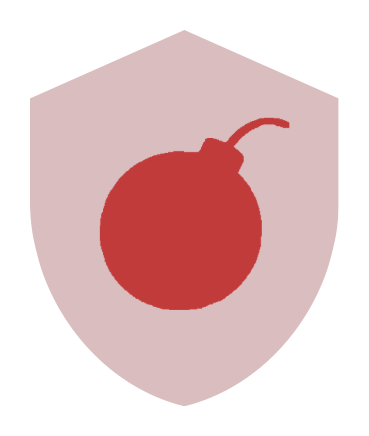
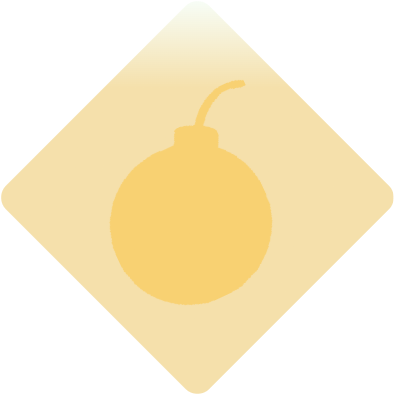
refine leaderboard

diff --git a/views/ranking_views.py b/views/ranking_views.py
@@ -1,4 +1,4 @@
-import discord
+import discord
 from discord.ext import commands
 from discord import app_commands
 import re
@@ -25,8 +25,8 @@ class RankingPaginationView(discord.ui.View):
         ranking_service = interaction.client.container.get('RankingService')
         if not ranking_service: return
         self.current_page = max(0, self.current_page - 1)
-        embeds, file = await ranking_service.generate_leaderboard_content(self.current_page)
-        attachments = [file] if file else []
+        embeds, files = await ranking_service.generate_leaderboard_content(self.current_page)
+        attachments = files if files else []
         await interaction.edit_original_response(content=None, embeds=embeds, attachments=attachments, view=self)
 
     @discord.ui.button(emoji="<:right:1538261357219160124>", style=discord.ButtonStyle.secondary, custom_id="ranking_next")
@@ -35,8 +35,8 @@ class RankingPaginationView(discord.ui.View):
         ranking_service = interaction.client.container.get('RankingService')
         if not ranking_service: return
         self.current_page = min(len(TIERS) - 1, self.current_page + 1)
-        embeds, file = await ranking_service.generate_leaderboard_content(self.current_page)
-        attachments = [file] if file else []
+        embeds, files = await ranking_service.generate_leaderboard_content(self.current_page)
+        attachments = files if files else []
         await interaction.edit_original_response(content=None, embeds=embeds, attachments=attachments, view=self)
 
 class LeaderboardLauncherView(discord.ui.View):
@@ -51,11 +51,11 @@ class LeaderboardLauncherView(discord.ui.View):
             return
             
         await interaction.response.defer(ephemeral=True)
-        embeds, file = await ranking_service.generate_leaderboard_content(0)
+        embeds, files = await ranking_service.generate_leaderboard_content(0)
         view = RankingPaginationView(0)
         kwargs = {"embeds": embeds, "view": view, "ephemeral": True}
-        if file:
-            kwargs["file"] = file
+        if files:
+            kwargs["files"] = files
         await interaction.followup.send(**kwargs)
 
     @discord.ui.button(label="Winrate", style=discord.ButtonStyle.secondary, custom_id="view_winrate_leaderboard_btn", emoji=discord.PartialEmoji(id=1537488434103455784, name="winrate"))

diff --git a/core/services/ranking_service.py b/core/services/ranking_service.py
@@ -60,7 +60,7 @@ class RankingService:
             print(f"Error fetching Bloxlink data for {user_id}: {e}")
         return None
 
-    async def generate_leaderboard_content(self, page_index: int) -> Tuple[List[discord.Embed], Optional[discord.File]]:
+    async def generate_leaderboard_content(self, page_index: int) -> Tuple[List[discord.Embed], List[discord.File]]:
         tier_name = TIERS[page_index]
         display_tier = "Novices" if tier_name == "Novice" else tier_name
         all_ranks = await self.db.get_all_player_ranks()
@@ -74,7 +74,7 @@ class RankingService:
                 
         tier_players.sort(key=lambda x: x[1])
         
-        desc = f"# 🏆 {display_tier} Leaderboard\n\n"
+        desc = f"# {display_tier}\n\n"
         file = None
         
         config_doc = await self.db.db.config.find_one({"_id": "api_keys"})
@@ -194,15 +194,27 @@ class RankingService:
         desc += f"\n*Page {page_index + 1} of {len(TIERS)}*"
         
         embeds = []
+        files = []
+        
         if file:
             image_embed = discord.Embed(color=discord.Color(0x2b2d31))
             image_embed.set_image(url="attachment://podium.png")
             embeds.append(image_embed)
+            files.append(file)
             
         text_embed = discord.Embed(description=desc, color=discord.Color(0x2b2d31))
+        
+        # Add tier thumbnail
+        import os
+        tier_path = os.path.join("assets", "tiers", f"{tier_name.lower()}.png")
+        if os.path.exists(tier_path):
+            tier_file = discord.File(tier_path, filename="tier_lb.png")
+            text_embed.set_thumbnail(url="attachment://tier_lb.png")
+            files.append(tier_file)
+            
         embeds.append(text_embed)
             
-        return embeds, file
+        return embeds, files
 
     async def get_player_rank(self, user_id: int) -> Optional[str]:
         return await self.db.get_player_rank(user_id)
